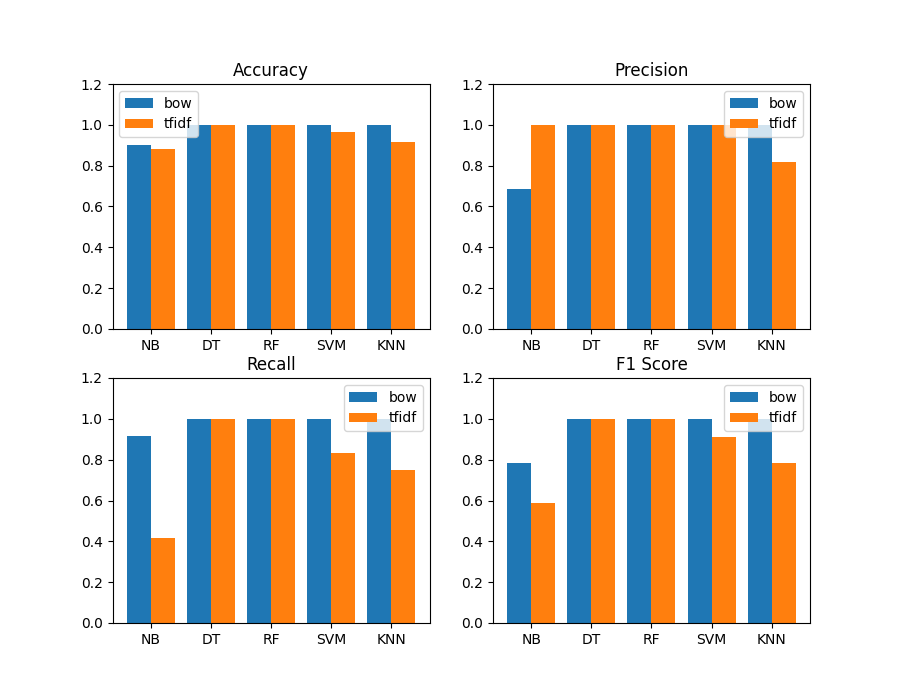
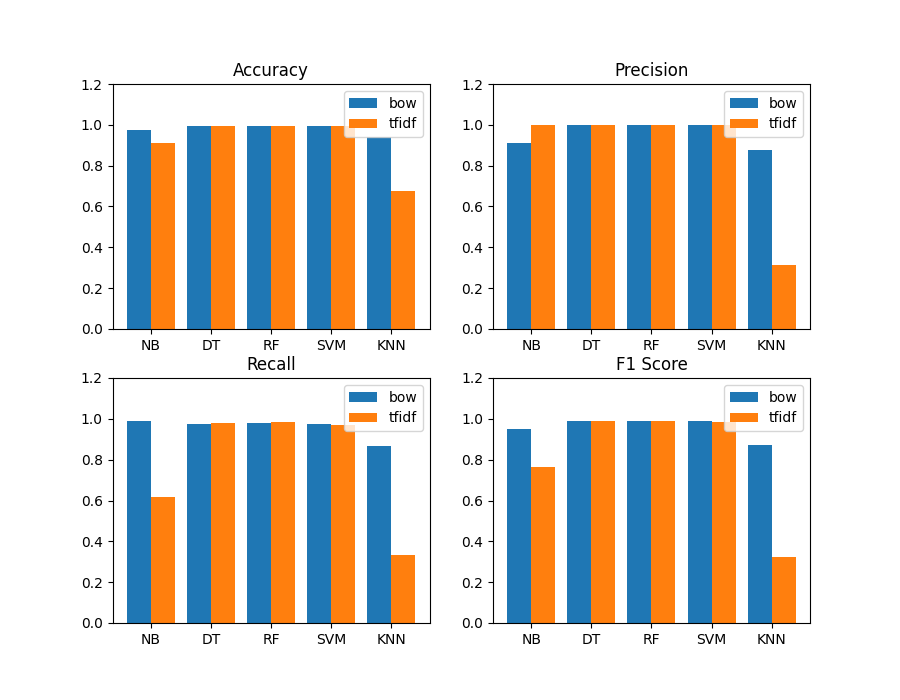
improving execution time by deccresing max_features on feature_extraction methods. Adding new results as well.

diff --git a/code/ml/main.py b/code/ml/main.py
@@ -22,8 +22,8 @@ class Metrics:
         self.f1 = []
 
 
-def show_score(y_test, y_pred, metric_list, title="", avg='binary', model_name='', params='', dataset_name='', type=''):
-    print("\n", title)
+def show_score(y_test, y_pred, metric_list, title="", avg='binary', model_name='', params='', dataset_name='', type='', seconds=0):
+    print(f"\n{title}: {seconds:.03f} seconds")
     if avg == 'mse':
         print("mean error (no squared): ", mean_squared_error(y_test, y_pred, squared=False))
     else:
@@ -40,7 +40,7 @@ def show_score(y_test, y_pred, metric_list, title="", avg='binary', model_name='
         print("precission: ", prec)
         print("recall: ", recall)
         print("f1_score: ", f1)
-        save_results_to_csv(model_name, params, dataset_name, type, avg, acc, prec, recall, f1)
+        save_results_to_csv(model_name, params, dataset_name, type, avg, acc, prec, recall, f1, seconds)
 
 
 def read_dataset(name):
@@ -65,9 +65,9 @@ def read_dataset(name):
 
 
 if __name__ == "__main__":
-    file_name = "clean_tweeter_3"
+    # file_name = "clean_tweeter_3"
     # file_name = "clean_reddit_cleaned"
-    # file_name = "clean_twitter_13"
+    file_name = "clean_twitter_13"
     # file_name = "clean_twitter_scale"
 
     df = read_dataset(file_name)
@@ -78,8 +78,9 @@ if __name__ == "__main__":
 
     # df = preprocess_text(df)
     # save_df_to_csv(df, '../data/clean_twitter_scale.csv')
-    tfidf = create_tfidf(df)
-    bow = create_bow(df)
+    max_features=250
+    tfidf = create_tfidf(df, max_features=max_features)
+    bow = create_bow(df, max_features=max_features)
 
     X_train_tfidf, X_test_tfidf, y_train_tfidf, y_test_tfidf = train_test_split(tfidf, df['label'],
                                                                                 test_size=0.2, random_state=10)
@@ -90,29 +91,29 @@ if __name__ == "__main__":
     bow_score = Metrics()
     tfidf_score = Metrics()
 
-    y_pred, params = execute_nb(X_train_tfidf, y_train_tfidf, X_test_tfidf)
-    show_score(y_test_tfidf, y_pred, title="NB tfidf", metric_list=tfidf_score, model_name='NB', params=params, dataset_name=file_name, type='tfidf')
-    y_pred, params = execute_nb(X_train_bow, y_train_bow, X_test_bow)
-    show_score(y_test_bow, y_pred, title="NB bow", metric_list=bow_score, model_name='NB', params=params, dataset_name=file_name, type='bow')
+    y_pred, params, elapsed= execute_nb(X_train_tfidf, y_train_tfidf, X_test_tfidf)
+    show_score(y_test_tfidf, y_pred, title="NB tfidf", metric_list=tfidf_score, model_name='NB', params=params, dataset_name=file_name, type='tfidf max_features=' + str(max_features), seconds=elapsed)
+    y_pred, params, elapsed= execute_nb(X_train_bow, y_train_bow, X_test_bow)
+    show_score(y_test_bow, y_pred, title="NB bow", metric_list=bow_score, model_name='NB', params=params, dataset_name=file_name, type='bow max_features=' + str(max_features), seconds=elapsed)
 
-    y_pred, params = execute_dtc(X_train_tfidf, y_train_tfidf, X_test_tfidf)
-    show_score(y_test_tfidf, y_pred, title="DT tfidf", metric_list=tfidf_score, model_name='DT', params=params, dataset_name=file_name, type='tfidf')
-    y_pred, params = execute_dtc(X_train_bow, y_train_bow, X_test_bow)
-    show_score(y_test_bow, y_pred, title="DT bow", metric_list=bow_score, model_name='DT', params=params, dataset_name=file_name, type='bow')
+    y_pred, params, elapsed= execute_dtc(X_train_tfidf, y_train_tfidf, X_test_tfidf)
+    show_score(y_test_tfidf, y_pred, title="DT tfidf", metric_list=tfidf_score, model_name='DT', params=params, dataset_name=file_name, type='tfidf max_features=' + str(max_features), seconds=elapsed)
+    y_pred, params, elapsed= execute_dtc(X_train_bow, y_train_bow, X_test_bow)
+    show_score(y_test_bow, y_pred, title="DT bow", metric_list=bow_score, model_name='DT', params=params, dataset_name=file_name, type='bow max_features=' + str(max_features), seconds=elapsed)
 
-    y_pred, params = execute_rf(X_train_tfidf, y_train_tfidf, X_test_tfidf)
-    show_score(y_test_tfidf, y_pred, title="RF tfidf", metric_list=tfidf_score, model_name='RF', params=params, dataset_name=file_name, type='tfidf')
-    y_pred, params = execute_rf(X_train_bow, y_train_bow, X_test_bow)
-    show_score(y_test_bow, y_pred, title="RF bow", metric_list=bow_score, model_name='RF', params=params, dataset_name=file_name, type='bow')
+    y_pred, params, elapsed= execute_rf(X_train_tfidf, y_train_tfidf, X_test_tfidf)
+    show_score(y_test_tfidf, y_pred, title="RF tfidf", metric_list=tfidf_score, model_name='RF', params=params, dataset_name=file_name, type='tfidf max_features=' + str(max_features), seconds=elapsed)
+    y_pred, params, elapsed= execute_rf(X_train_bow, y_train_bow, X_test_bow)
+    show_score(y_test_bow, y_pred, title="RF bow", metric_list=bow_score, model_name='RF', params=params, dataset_name=file_name, type='bow max_features=' + str(max_features), seconds=elapsed)
 
-    y_pred, params = execute_svm(X_train_tfidf, y_train_tfidf, X_test_tfidf)
-    show_score(y_test_tfidf, y_pred, title="SVM tfidf", metric_list=tfidf_score, model_name='SVM', params=params, dataset_name=file_name, type='tfidf')
-    y_pred, params = execute_svm(X_train_bow, y_train_bow, X_test_bow)
-    show_score(y_test_bow, y_pred, title="SVM bow", metric_list=bow_score, model_name='SVM', params=params, dataset_name=file_name, type='bow')
+    y_pred, params, elapsed= execute_svm(X_train_tfidf, y_train_tfidf, X_test_tfidf)
+    show_score(y_test_tfidf, y_pred, title="SVM tfidf", metric_list=tfidf_score, model_name='SVM', params=params, dataset_name=file_name, type='tfidf max_features=' + str(max_features), seconds=elapsed)
+    y_pred, params, elapsed= execute_svm(X_train_bow, y_train_bow, X_test_bow)
+    show_score(y_test_bow, y_pred, title="SVM bow", metric_list=bow_score, model_name='SVM', params=params, dataset_name=file_name, type='bow max_features=' + str(max_features), seconds=elapsed)
 
-    y_pred, params = execute_knn(X_train_tfidf, y_train_tfidf, X_test_tfidf)
-    show_score(y_test_tfidf, y_pred, title="KNN tfidf", metric_list=tfidf_score, model_name='KNN', params=params, dataset_name=file_name, type='tfidf')
-    y_pred, params = execute_knn(X_train_bow, y_train_bow, X_test_bow)
-    show_score(y_test_bow, y_pred, title="KNN bow", metric_list=bow_score, model_name='KNN', params=params, dataset_name=file_name, type='bow')
+    y_pred, params, elapsed= execute_knn(X_train_tfidf, y_train_tfidf, X_test_tfidf)
+    show_score(y_test_tfidf, y_pred, title="KNN tfidf", metric_list=tfidf_score, model_name='KNN', params=params, dataset_name=file_name, type='tfidf max_features=' + str(max_features), seconds=elapsed)
+    y_pred, params, elapsed= execute_knn(X_train_bow, y_train_bow, X_test_bow)
+    show_score(y_test_bow, y_pred, title="KNN bow", metric_list=bow_score, model_name='KNN', params=params, dataset_name=file_name, type='bow max_features=' + str(max_features), seconds=elapsed)
 
-    bar_plot_multiple_column(models, bow_score, tfidf_score, "bow", "tfidf", file_name)
+    bar_plot_multiple_column(models, bow_score, tfidf_score, "bow max_features=" + str(max_features), 'tfidf max_features=' + str(max_features), file_name + "_max_features=" + str(max_features))

diff --git a/code/ml/ml_models.py b/code/ml/ml_models.py
@@ -1,39 +1,57 @@
 import json
-
+import time
 from sklearn.naive_bayes import MultinomialNB
 from sklearn.neighbors import KNeighborsClassifier
 from sklearn.tree import DecisionTreeClassifier
 from sklearn.ensemble import RandomForestClassifier
 from sklearn import svm
 
+
 def get_params_string(model):
     params = model.get_params()
     return json.dumps(params)
+
+
 def execute_nb(X_train, y_train, X_test):
     nb = MultinomialNB()
+    start = time.perf_counter()
     nb.fit(X_train, y_train)
-    return nb.predict(X_test), get_params_string(nb)
+    y_pred = nb.predict(X_test)
+    elapsed = time.perf_counter() - start
+    return y_pred, get_params_string(nb), elapsed
 
 
 def execute_dtc(X_train, y_train, X_test):
     dtc = DecisionTreeClassifier(criterion='entropy', random_state=1)
+    start = time.perf_counter()
     dtc.fit(X_train, y_train)
-    return dtc.predict(X_test), get_params_string(dtc)
+    y_pred = dtc.predict(X_test)
+    elapsed = time.perf_counter() - start
+    return y_pred, get_params_string(dtc), elapsed
 
 
 def execute_rf(X_train, y_train, X_test):
     rf = RandomForestClassifier(n_jobs=-1)
+    start = time.perf_counter()
     rf.fit(X_train, y_train)
-    return rf.predict(X_test), get_params_string(rf)
+    y_pred = rf.predict(X_test)
+    elapsed = time.perf_counter() - start
+    return y_pred, get_params_string(rf), elapsed
 
 
 def execute_svm(X_train, y_train, X_test):
     cls = svm.SVC(kernel='linear')
+    start = time.perf_counter()
     cls.fit(X_train, y_train)
-    return cls.predict(X_test), get_params_string(cls)
+    y_pred = cls.predict(X_test)
+    elapsed = time.perf_counter() - start
+    return y_pred, get_params_string(cls), elapsed
 
 
 def execute_knn(X_train, y_train, X_test):
     knn = KNeighborsClassifier()
+    start = time.perf_counter()
     knn.fit(X_train, y_train)
-    return knn.predict(X_test), get_params_string(knn)
+    y_pred = knn.predict(X_test)
+    elapsed = time.perf_counter() - start
+    return y_pred, get_params_string(knn), elapsed

diff --git a/code/ml/plots.py b/code/ml/plots.py
@@ -48,8 +48,8 @@ def bar_plot_multiple_column(models, type1, type2, type1desc, type2desc, file_na
     plt.show()
 
 
-def save_results_to_csv(model_name, params, dataset_name, type, average, acc, prec, recall, f1):
-    row = [model_name, params, dataset_name, type, average, str(acc), str(prec), str(recall), str(f1)]
+def save_results_to_csv(model_name, params, dataset_name, type, average, acc, prec, recall, f1, seconds):
+    row = [model_name, params, dataset_name, type, average, str(acc), str(prec), str(recall), str(f1), str(seconds)]
 
     with open(r'../results/results.csv', 'a', newline='') as fd:
         write = csv.writer(fd, delimiter=';')

diff --git a/code/ml/preprocess_text.py b/code/ml/preprocess_text.py
@@ -45,14 +45,14 @@ def preprocess_text(df):
     return df
 
 
-def create_tfidf(df):
-    vectorizer = TfidfVectorizer()
+def create_tfidf(df, max_features=None):
+    vectorizer = TfidfVectorizer(max_features=max_features)
     processed = vectorizer.fit_transform(df['processed'].values.astype('U'))
     return processed
 
 
-def create_bow(df):
-    bow_vectorizer = CountVectorizer()
+def create_bow(df, max_features=None):
+    bow_vectorizer = CountVectorizer(max_features=max_features)
     bow = bow_vectorizer.fit_transform(df['processed'].values.astype('U'))
     df_bow = pd.DataFrame(bow.todense())
     return df_bow
